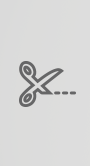
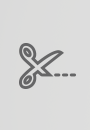
scisor and arrow. active and inactive

Changed region(s): [[0.2, 0.3077, 0.7556, 0.7077], [0.7778, 0.5231, 0.8444, 0.6154]]

diff --git a/details/myCtrl.js b/details/myCtrl.js
@@ -2,11 +2,11 @@ app.controller("myCtrl", function($scope, $location) {
     $scope.mycid = $location.search().mycid;
     
     $scope.coupons = [
-        {"id":"1", "code":"ABCDEFGH", "discount":"20%", "title":"EXTRA 20% OFF WITH JCP CARD PURCHASE", "subtitle":"", "expiration":"Valid 4/27-5/17"},
-        {"id":"2", "code":"EFGHHIJK", "discount":"10%", "title":"$15 BONUSCASH", "subtitle":"WHEN YOU SPEND $50 OR MORE", "expiration":"Valid 4/27-5/17"},
+        {"id":"1", "code":"ABCDEFGH", "discount":"20%", "title":"EXTRA 20% OFF ", "subtitle":"WITH JCP CARD PURCHASE", "expiration":"Valid 4/27-5/17"},
+        {"id":"2", "code":"EFGHHIJK", "discount":"10%", "title":"$15 BONUS CASH", "subtitle":"WHEN YOU SPEND $50 OR MORE", "expiration":"Valid 4/27-5/17"},
         {"id":"3", "code":"HIJKLMNO", "discount":"15%", "title":"EXTRA 15% OFF", "subtitle":"WHEN YOU SPEND $40 OR MORE", "expiration":"Valid 4/27-5/17"},
-        {"id":"4", "code":"LMNOPQRW", "discount":"10%", "title":"$20 BONUSCASH", "subtitle":"WHEN YOU SPEND $60 OR MORE", "expiration":"Valid 4/27-5/17"},
-        {"id":"5", "code":"PQRSTUVW", "discount":"20%", "title":"EXTRA 20% OFF WITH JCP CARD PUCHASE", "subtitle":"", "expiration":"Valid 4/27-5/31"},
+        {"id":"4", "code":"LMNOPQRW", "discount":"10%", "title":"$20 BONUS CASH", "subtitle":"WHEN YOU SPEND $60 OR MORE", "expiration":"Valid 4/27-5/17"}, 
+        {"id":"5", "code":"PQRSTUVW", "discount":"20%", "title":"EXTRA 20% OFF ", "subtitle":"WITH JCP CARD PUCHASE", "expiration":"Valid 4/27-5/31"},
         {"id":"6", "code":"TUVWXYZA", "discount":"15%", "title":"EXTRA 15% OFF", "subtitle":"WHEN YOU SPEND $40 OR MORE", "expiration":"Valid 4/27-5/31"}
     ];
     

diff --git a/details/myApp.css b/details/myApp.css
@@ -1,4 +1,5 @@
 div#couponListSide {
+    float: left;
     margin: 0px;
     border: 1px solid grey;
     overflow-x: hidden;
@@ -8,20 +9,22 @@ div#couponListSide {
     height: 880px;
 }
 
-div.couponBoxSide {
+.couponBoxSide {
     margin: 0px;
     border: 1px solid grey;
-    background-color: #E7E7E7;
+    background-color: #DCDCDC;
     width: 550px;
     height: 150px;
+    color: #666666; 
+    font-size: 24px;
 }
 
-div.couponSide {
-    border: 1px solid grey;
-    width: 550px;
+.couponSide {
+    float: left;
+    width: 375px;
     height: 90px;
-    padding-left: 0px;
-    padding-right: 0px;
+    border-left: 90px;
+    padding-left: 20px;
     padding-top: 30px;
     padding-bottom: 30px;
 }
@@ -63,5 +66,37 @@ div#couponMoreText {
 }
 
 .active {
+    background-color: white;
+    color: red;
+}
+
+.inactiveImg {
+    float: left;
+    width: 90px;
+    height: 130px;
+    background-image: url(../images/scisor.png);
+}
+
+.activeImg {
+    float: left;
+    width: 90px;
+    height: 130px;
     background-image: url(../images/scisor_active.png);
 }
+
+.inactiveArr {
+    float: right;
+    width: 45px;
+    height: 130px;
+    padding-right: 10px;
+    background-image: url(../images/arrow.png);
+}
+
+.activeArr {
+    float: right;
+    width: 45px;
+    height: 130px;
+    background-image: url(../images/arrow_active.png);
+}
+
+

diff --git a/details/index.html b/details/index.html
@@ -11,15 +11,15 @@
 
 <div ng-app="myApp" ng-controller="myCtrl">
     <div id="kiosk">
-        <div id="couponListSide" style="float: left;">
-            <div class="couponBoxSide" ng-repeat="x in coupons" ng-class="{active : isSelected(x.id)}" >
-                <div class="couponSide" ng-click="showDetails(x)" >
-                    <span style="color: #CC0000; font-size: 24px;">{{x.title}}</span><br>
-                    <span style="color: #666666; font-size: 18px;">{{x.subtitle}}</span><br>
-                    <span style="color: #999999; font-size: 14px;">{{x.expiration}}</span>
-                </div>
+        <div id="couponListSide">
+            <div class="couponBoxSide" ng-repeat="x in coupons" ng-class="{active : isSelected(x.id)}" ng-click="showDetails(x)">
+                <div class="inactiveImg" ng-class="{activeImg : isSelected(x.id)}"></div>
+                <div class="couponSide" >
+                    <span style="font-weight: 800;" >{{x.title}}</span><Span> {{x.subtitle}}</span>
             </div>
+                <div class="inactiveArr" ng-class="{activeArr : isSelected(x.id)}"></div>
         </div>
+            </div>
         <div id="couponDetails" style="float: left;">
             <div id="couponCutArea" style="float: left;" >
                 <div id="couponPrint">
